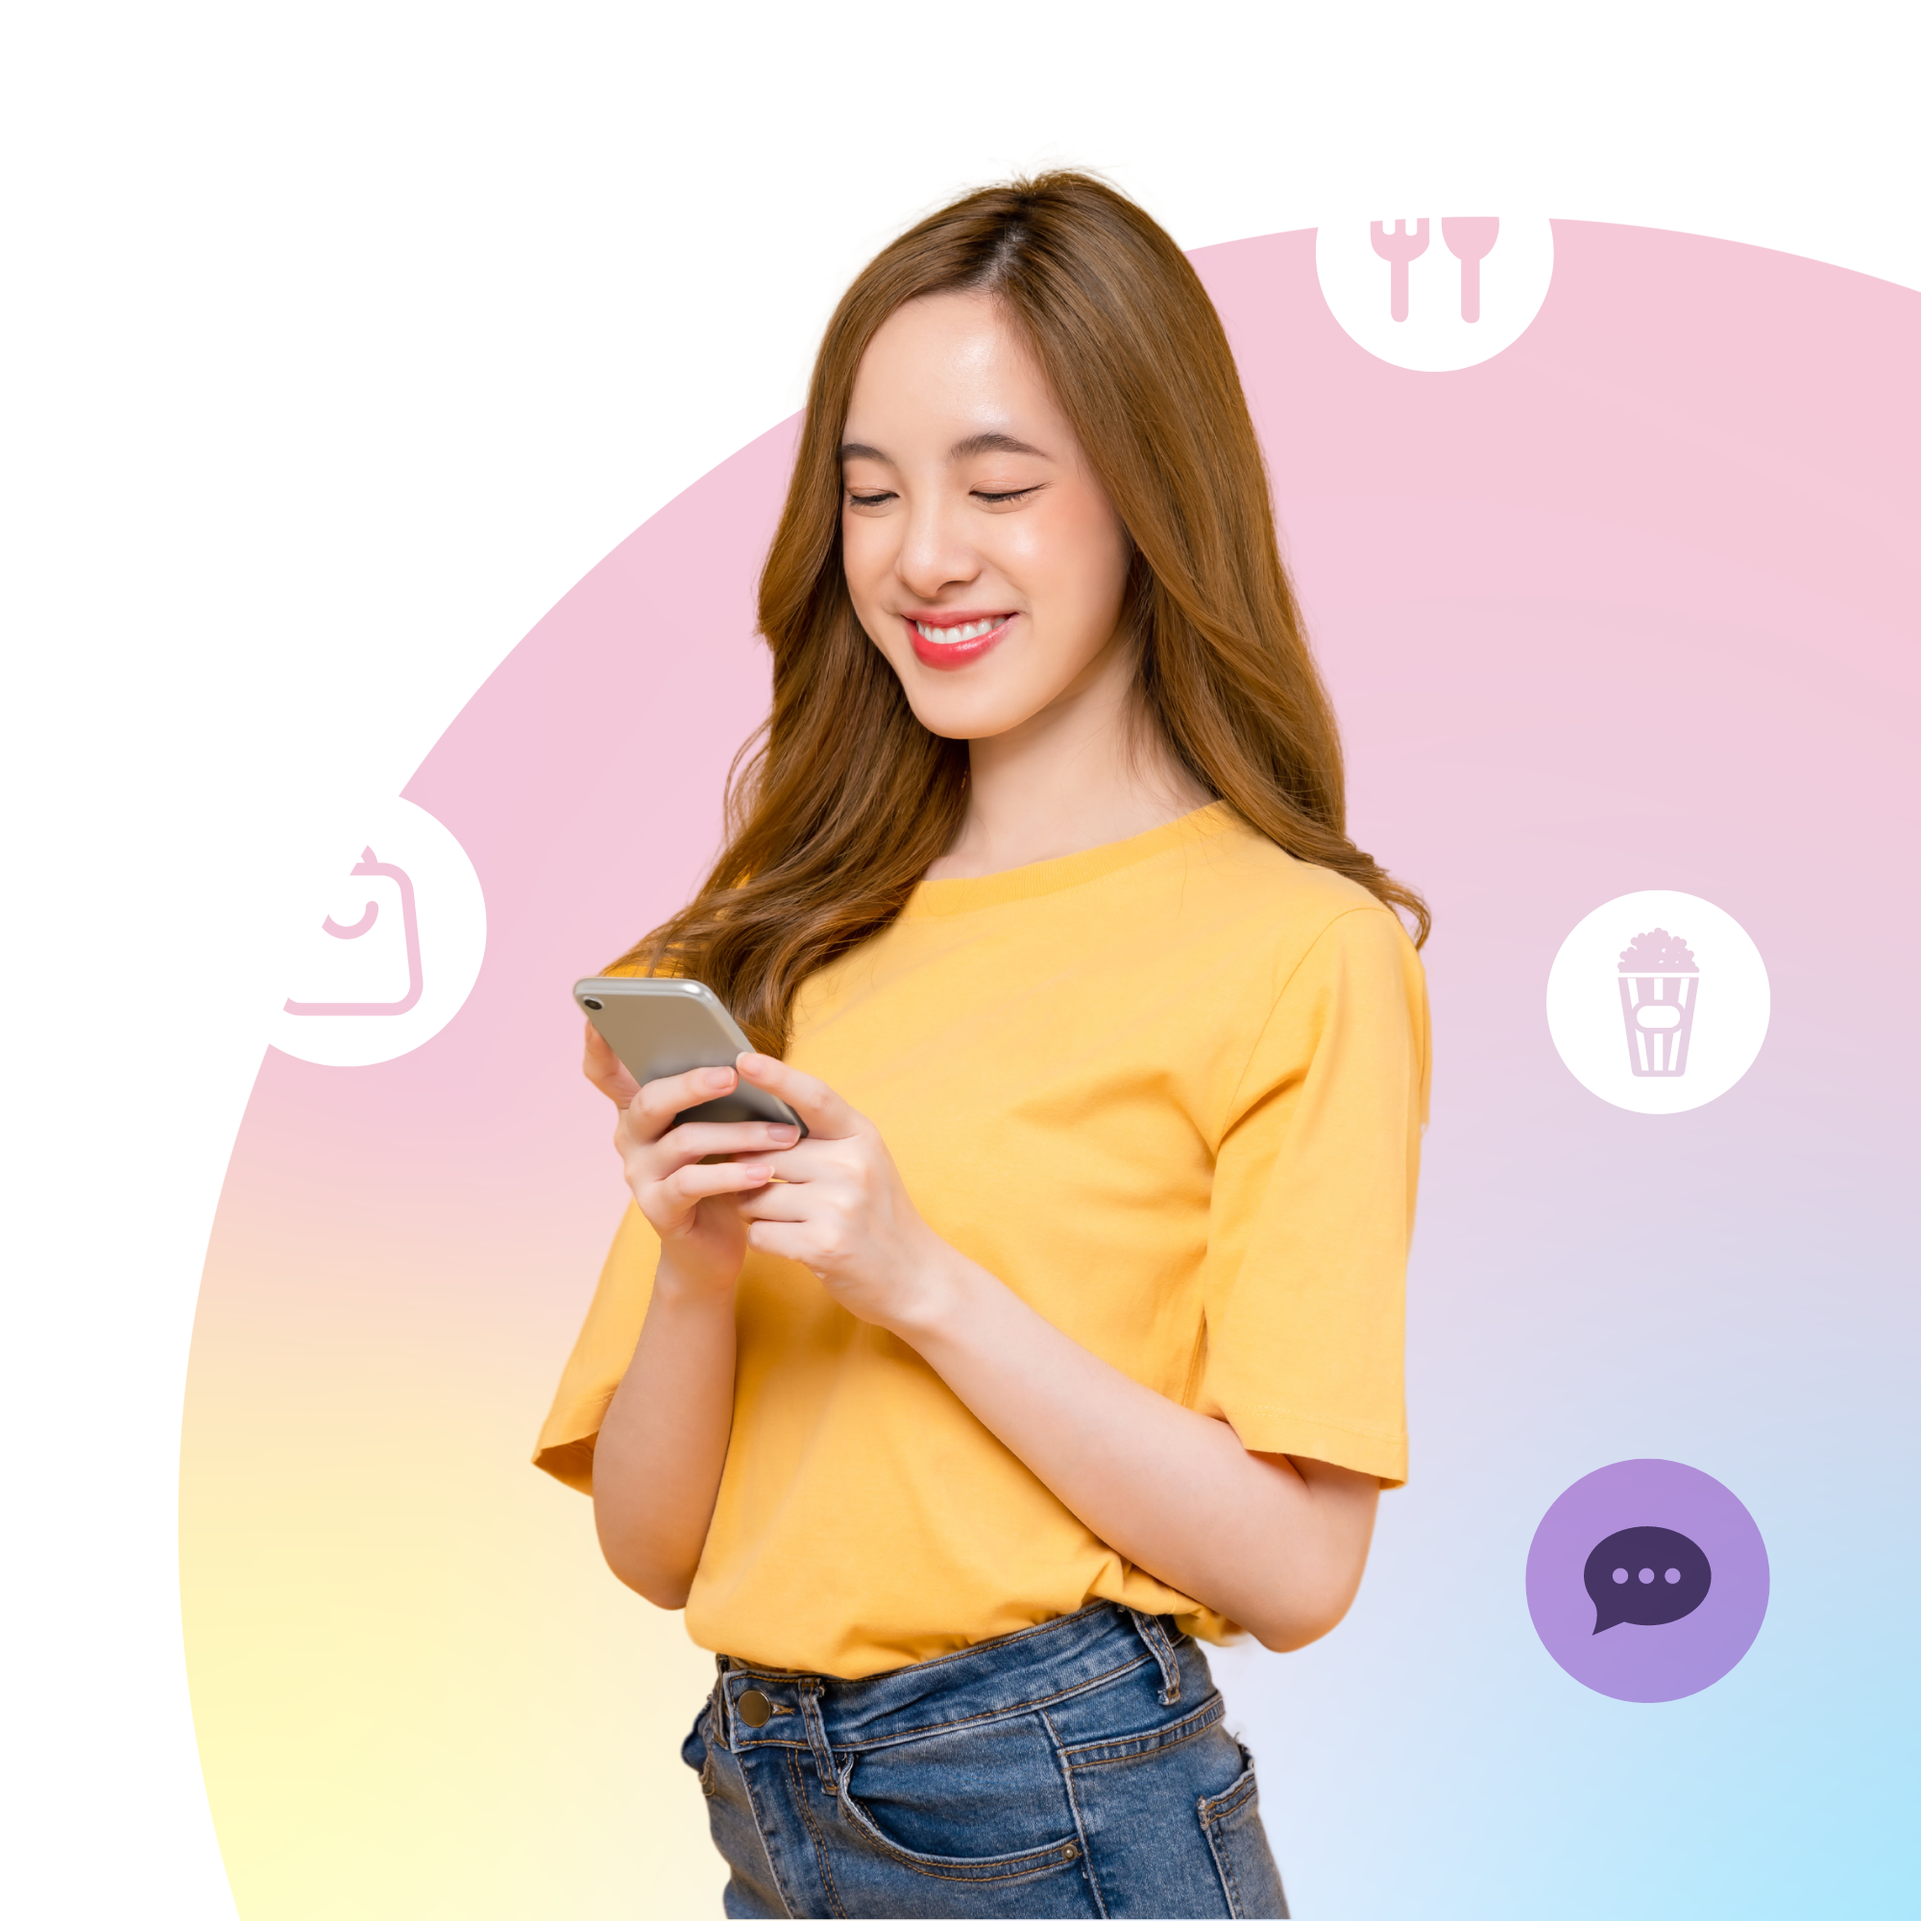
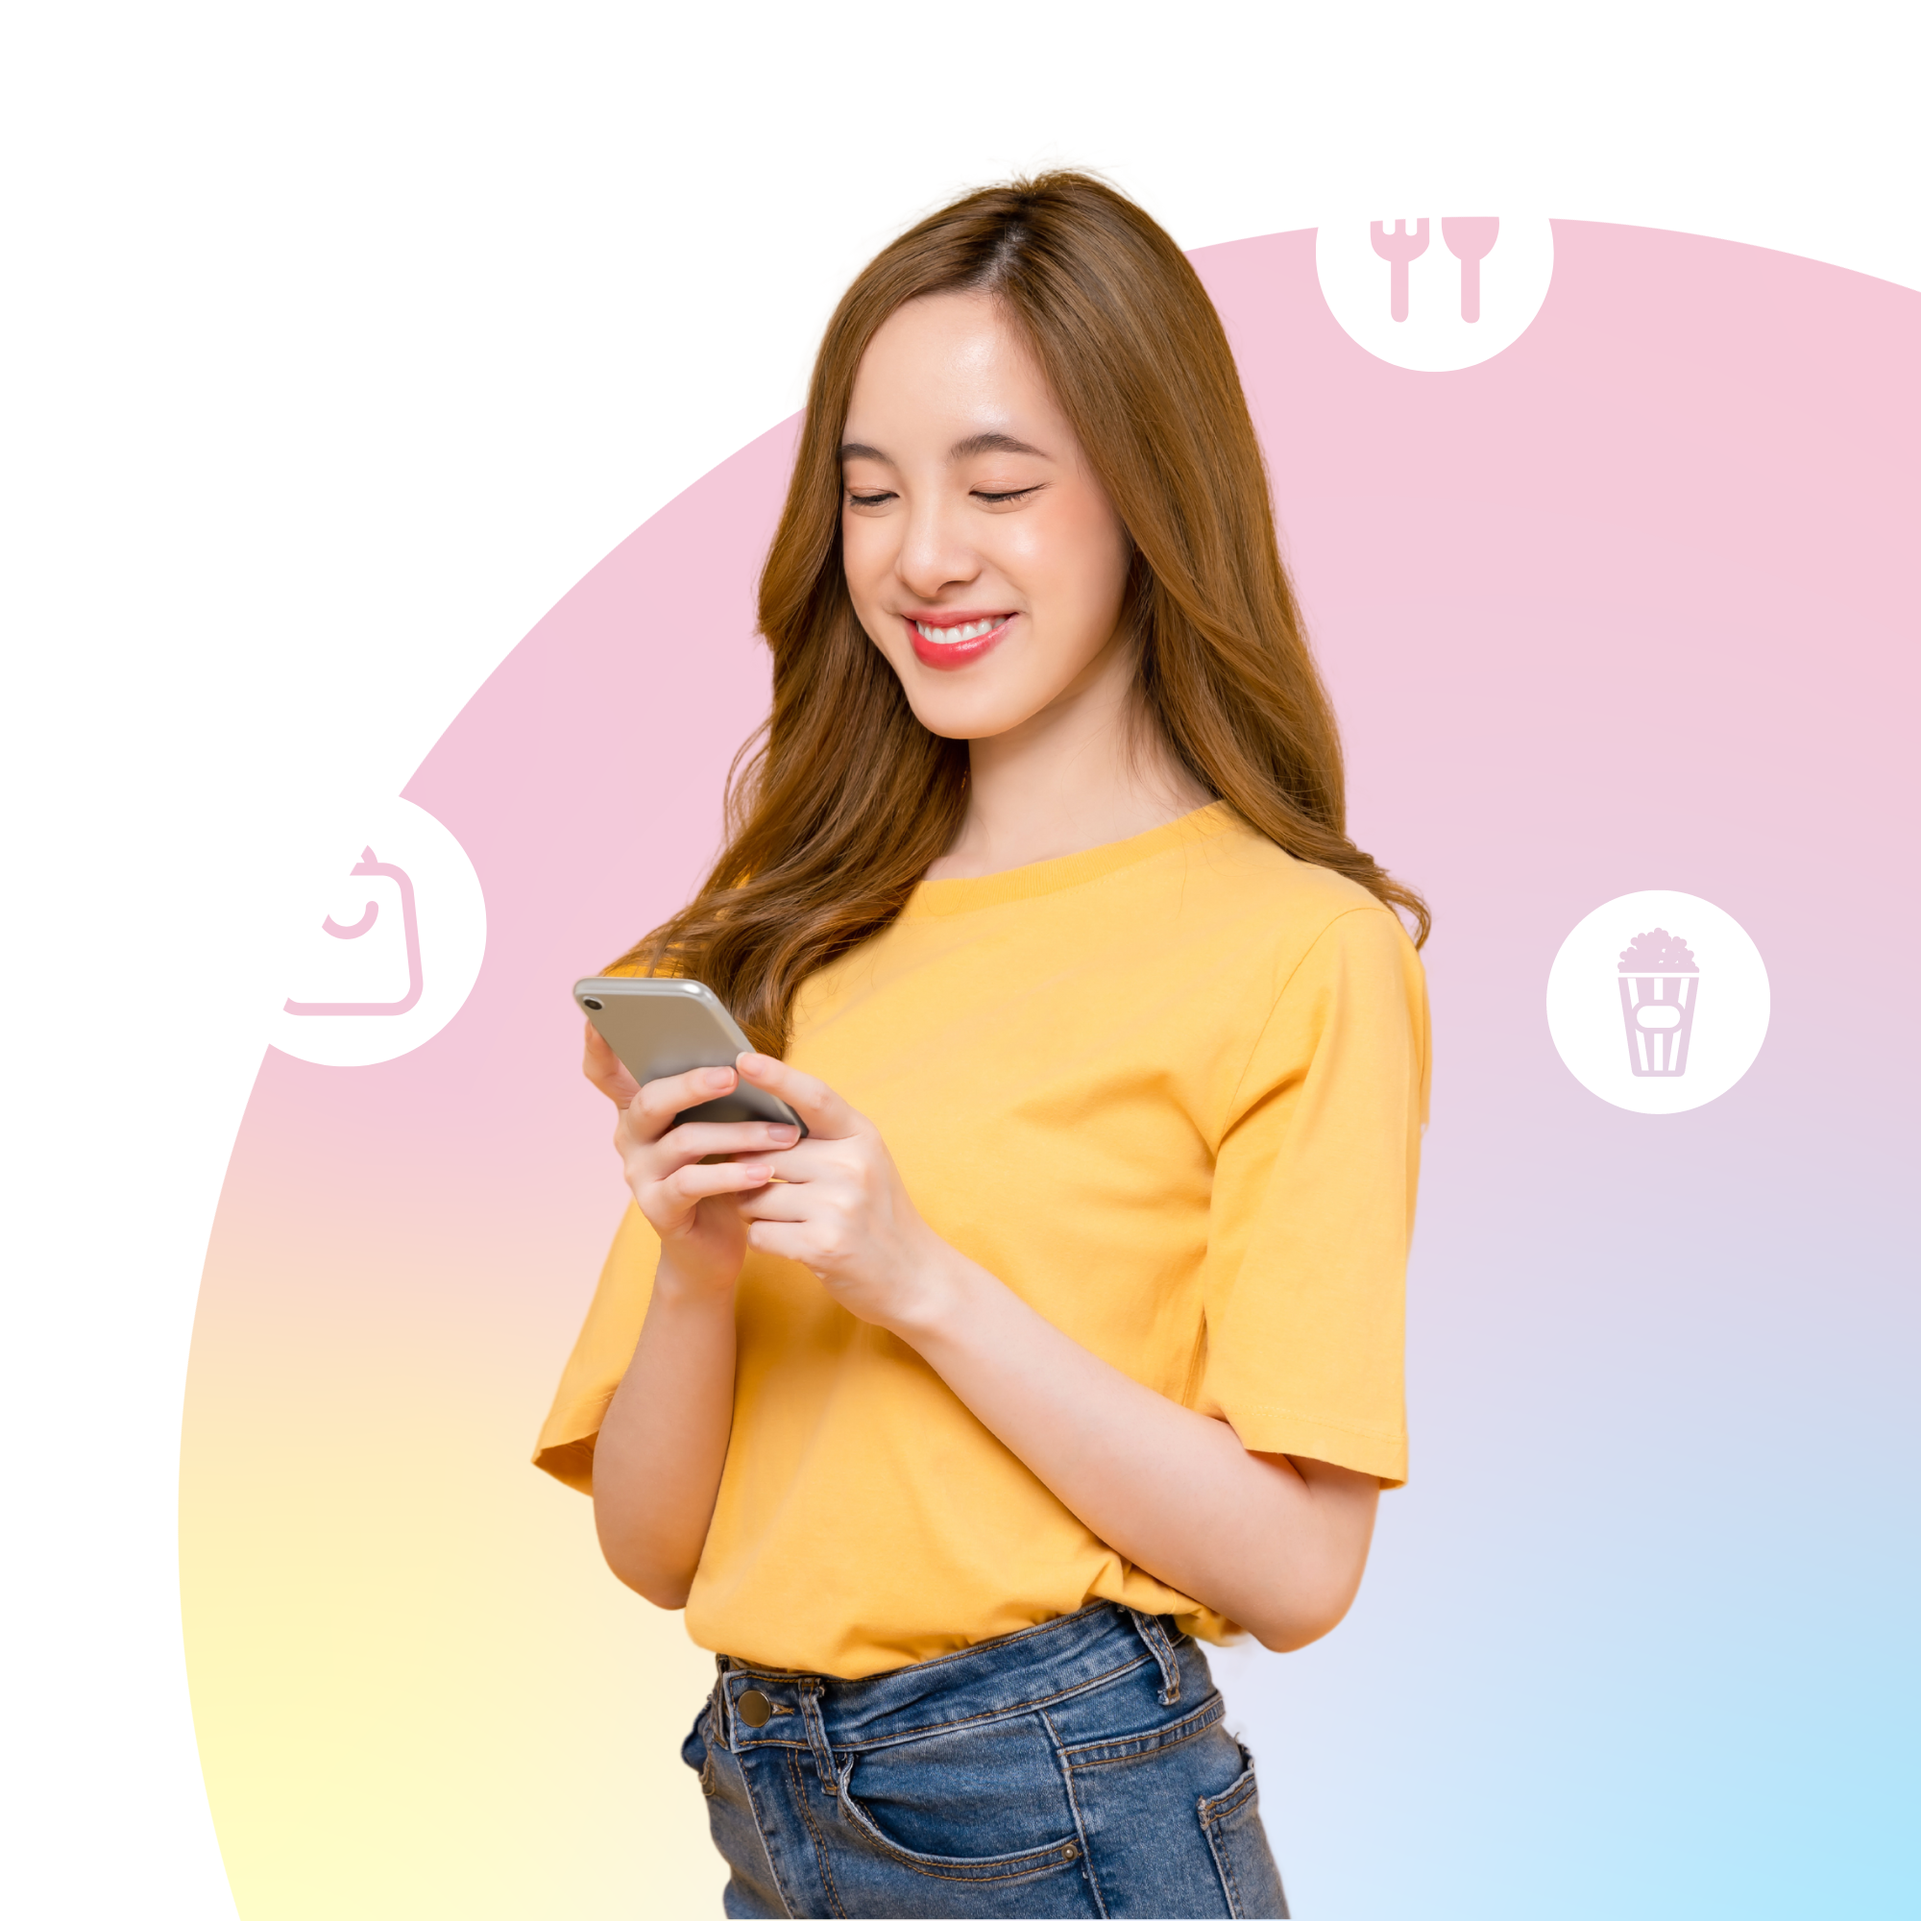
scroll to learn more

Changed region(s): [[0.775, 0.744, 0.93, 0.899]]

diff --git a/pages/index.vue b/pages/index.vue
@@ -1,38 +1,104 @@
 <script setup lang="ts">
+import { ref } from 'vue';
 import Header from '@/layouts/header/Header.vue';
 import HeroBanner from '@/components/custom-components/HeroBanner.vue';
-import Services from '@/components/custom-components/Services.vue';
-import BuildAmazing from '@/components/custom-components/BuildAmazing.vue';
 import BuildFeature from '@/components/custom-components/BuildFeature.vue';
-import ChoosePricePlan from '@/components/custom-components/ChooseYourPlan.vue';
-import Portfolio from '@/components/custom-components/Portfolio.vue';
 import Blog from '@/components/custom-components/BlogSection.vue';
-import Team from '@/components/custom-components/Team.vue';
 import Testimonials from '@/components/custom-components/Testimonials.vue';
-import Contact  from '@/components/custom-components/Contact.vue';
-import UpgradetoPro from '@/components/custom-components/UpgradetoPro.vue';
-import Footer from '@/layouts/footer/Footer.vue';
+import Contact from '@/components/custom-components/Contact.vue';
+
+const chatOpen = ref(false);
+const name = ref('');
+const email = ref('');
+const message = ref('');
+
+const toggleChat = () => {
+    chatOpen.value = !chatOpen.value;
+};
+
+const submitForm = () => {
+    console.log('Form submitted:', { name: name.value, email: email.value, message: message.value });
+    name.value = '';
+    email.value = '';
+    message.value = '';
+    chatOpen.value = false;
+};
 </script>
 
-
-
 <template>
-    <!--Header-->
     <Header />
-        <HeroBanner id="hero" />
-        <!-- <Services /> -->
-        <!-- <BuildAmazing /> -->
-        
-        <!-- <ChoosePricePlan/> -->
-        <Testimonials id="testimonials"/>
-        <BuildFeature id="features"/>
-        <Blog id="blog"/>
-        
-        <!-- <Portfolio/> -->
-        <!-- <Team/> -->
-        
-        <Contact id="contact"/>
-        <!-- <UpgradetoPro/> -->
-    <!-- <Footer /> -->
+    <HeroBanner id="hero" />
+    <Testimonials id="testimonials" />
+    <BuildFeature id="features" />
+    <Blog id="blog" />
+    <Contact id="contact" />
+
+    <!-- Fixed Chat Component -->
+    <div class="chat-container" :class="{ 'chat-open': chatOpen }">
+        <div v-if="!chatOpen" @click="toggleChat" class="chat-button">
+            <svg xmlns="http://www.w3.org/2000/svg" class="icon icon-tabler icon-tabler-brand-hipchat" width="44"
+                height="44" viewBox="0 0 24 24" stroke-width="1.5" stroke="#2c3e50" fill="none" stroke-linecap="round"
+                stroke-linejoin="round">
+                <path stroke="none" d="M0 0h24v24H0z" fill="none" />
+                <path
+                    d="M17.802 17.292s.077 -.055 .2 -.149c1.843 -1.425 3 -3.49 3 -5.789c0 -4.286 -4.03 -7.764 -9 -7.764c-4.97 0 -9 3.478 -9 7.764c0 4.288 4.03 7.646 9 7.646c.424 0 1.12 -.028 2.088 -.084c1.262 .82 3.104 1.493 4.716 1.493c.499 0 .734 -.41 .414 -.828c-.486 -.596 -1.156 -1.551 -1.416 -2.29z" />
+                <path d="M7.5 13.5c2.5 2.5 6.5 2.5 9 0" />
+            </svg>
+        </div>
+        <v-card v-else class="chat-dialog">
+            <v-card-title class="text-h5 text-center pa-4" style="background-color: #cca3e1; color: white;">
+                สวัสดี <br>
+                ต้องการให้เราช่วยเหลืออะไร
+            </v-card-title>
+            <v-card-text>
+                <v-form @submit.prevent="submitForm" class="pt-3">
+                    <v-text-field v-model="name" label="Name" required></v-text-field>
+                    <v-text-field v-model="email" label="Email" required type="email"></v-text-field>
+                    <v-textarea v-model="message" label="How can we help?" required></v-textarea>
+                    <v-btn color="chatbtn" block type="submit" class="mt-4">
+                        Send
+                    </v-btn>
+                </v-form>
+            </v-card-text>
+            <v-card-actions class="justify-center pb-4">
+                <v-btn text @click="toggleChat">Close</v-btn>
+            </v-card-actions>
+        </v-card>
+    </div>
 </template>
 
+<style scoped>
+.chat-container {
+    position: fixed;
+    bottom: 20px;
+    right: 20px;
+    z-index: 1000;
+}
+
+.chat-button {
+    width: 60px;
+    height: 60px;
+    border-radius: 50%;
+    background-color: #cca3e1;
+    color: white;
+    display: flex;
+    align-items: center;
+    justify-content: center;
+    cursor: pointer;
+    box-shadow: 0 2px 4px rgba(0, 0, 0, 0.2);
+}
+
+.chat-dialog {
+    width: 300px;
+    max-height: 80vh;
+    overflow-y: auto;
+    border-radius: 16px;
+    box-shadow: 0 4px 6px rgba(0, 0, 0, 0.1);
+}
+
+@media (min-width: 600px) {
+    .chat-dialog {
+        width: 400px;
+    }
+}
+</style>

diff --git a/components/custom-components/HeroBanner.vue b/components/custom-components/HeroBanner.vue
@@ -1,3 +1,14 @@
+<script setup>
+import { ref } from 'vue';
+
+const scrollToTestimonials = () => {
+    const testimonialsElement = document.getElementById('testimonials');
+    if (testimonialsElement) {
+        testimonialsElement.scrollIntoView({ behavior: 'smooth', block: 'start' });
+    }
+};
+</script>
+
 <style>
 .corporate-banner {
     background: rgb(146, 122, 244);
@@ -25,29 +36,29 @@
 </style>
 
 <template>
-   <div class="corporate-banner pt-md-16 pt-8 pb-md-12 pb-8 mt-95">
-    <v-container class="d-flex space-between">
-        <v-row class="align-center justify-space-between">
-            <v-col cols="12" md="5">
-                
-                <p class="text-h1 mb-6" style="">Simple way to find your</p>
-                <p class="text-friend mb-6">FRIENDS</p>
-                <p class="text-body-1 mb-8">SERVF บริการหาเพื่อนไปทำกิจกรรมต่าง ๆ ร่วมกัน</p>
-                <v-btn variant="flat" color="white" size="large" class="px-9" style="color: #7a0eb0;">Learn more</v-btn>
-            </v-col>
-            <v-col cols="12" md="6" class="d-flex justify-content-end align-items-end w-100">
-                <div class="position-relative text-right w-100">
-                   
-                    <div class="position-relative z-index1 rounded-md overflow-hidden w-100">
-                        <img src="/images/corporate/corporate-banner.png" alt="banner"
-                            class="img-fluid rounded-md w-100" />
+    <div class="corporate-banner pt-md-16 pt-8 pb-md-12 pb-8 mt-95">
+        <v-container class="d-flex space-between">
+            <v-row class="align-center justify-space-between">
+                <v-col cols="12" md="5">
+                    <p class="text-h1 mb-6" style="">Simple way to find your</p>
+                    <p class="text-friend mb-6">FRIENDS</p>
+                    <p class="text-body-1 mb-8">SERVF บริการหาเพื่อนไปทำกิจกรรมต่าง ๆ ร่วมกัน</p>
+                    <v-btn variant="flat" color="white" size="large" class="px-9" style="color: #7a0eb0;"
+                        @click="scrollToTestimonials">
+                        Learn more
+                    </v-btn>
+                </v-col>
+                <v-col cols="12" md="6" class="d-flex justify-content-end align-items-end w-100">
+                    <div class="position-relative text-right w-100">
+                        <div class="position-relative z-index1 rounded-md overflow-hidden w-100">
+                            <img src="/images/corporate/corporate-banner.png" alt="banner"
+                                class="img-fluid rounded-md w-100" />
+                        </div>
+                        <img src="/images/shape/circle-line-3.png" alt="shape"
+                            class="img-fluid position-absolute bottom-0 right-0 mb-n10 mr-n12" />
                     </div>
-                    <img src="/images/shape/circle-line-3.png" alt="shape"
-                        class="img-fluid position-absolute bottom-0 right-0 mb-n10 mr-n12" />
-                </div>
-            </v-col>
-        </v-row>
-    </v-container>
-</div>
-
+                </v-col>
+            </v-row>
+        </v-container>
+    </div>
 </template>

diff --git a/plugins/vuetify.ts b/plugins/vuetify.ts
@@ -43,6 +43,7 @@ const themecolors: ThemeDefinition = {
       darkBorder:'#153757',
       darkblue:'#102d47',
       lightborder:'#E5ECF8',
+      chatbtn:'#723bcf',
     //   background: 'transparent',
       surface: '#fff',
       'on-surface-variant':'#fff',

diff --git a/layouts/header/Header.vue b/layouts/header/Header.vue
@@ -10,7 +10,6 @@ import MobileNavCollapse from './NavCollapse/MobileNavCollapse.vue';
 
 const drawer = ref(false);
 
-// For on Scroll Effect on Header
 onBeforeMount(() => {
   window.addEventListener('scroll', handleScroll)
 })
